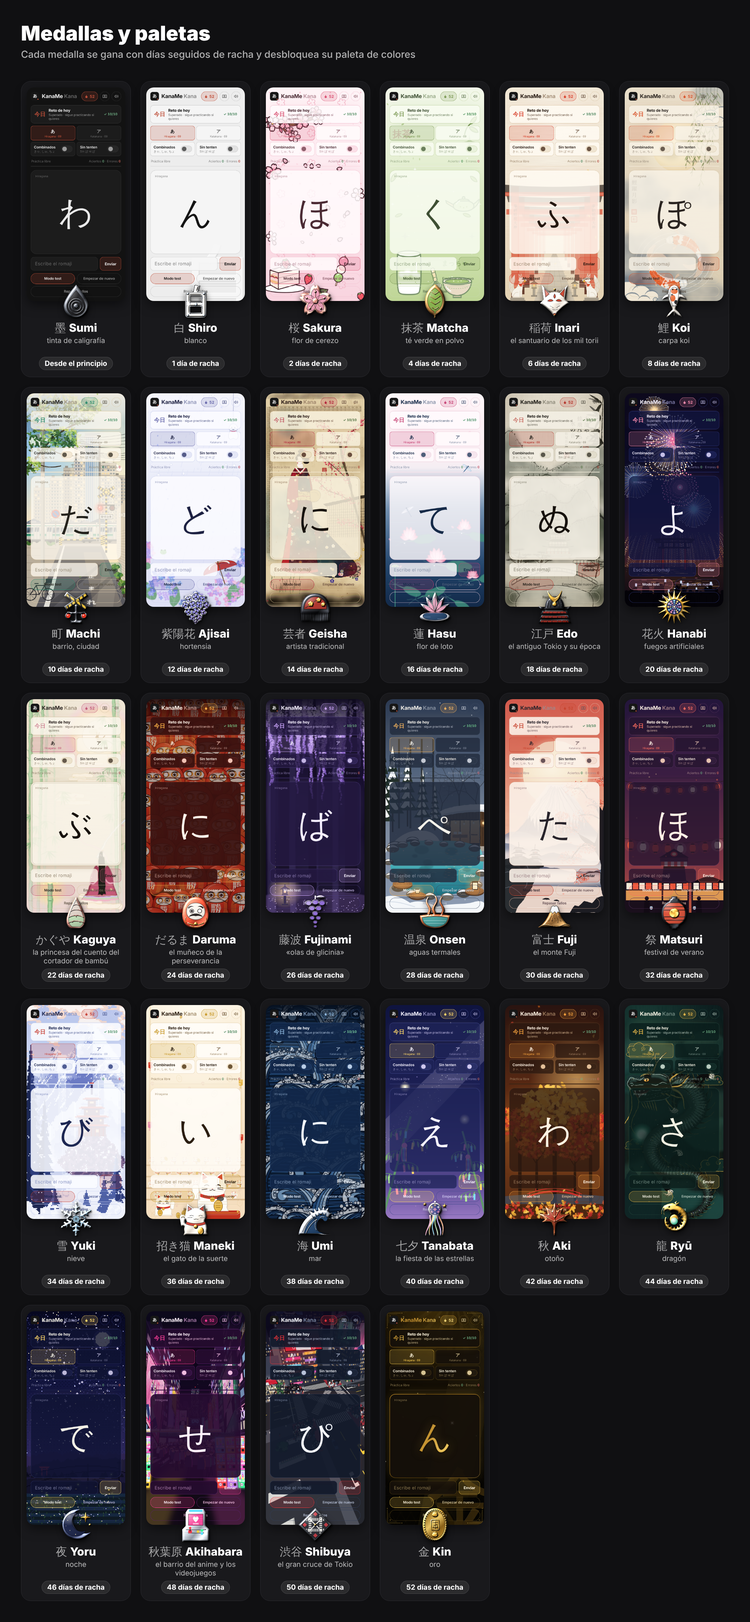
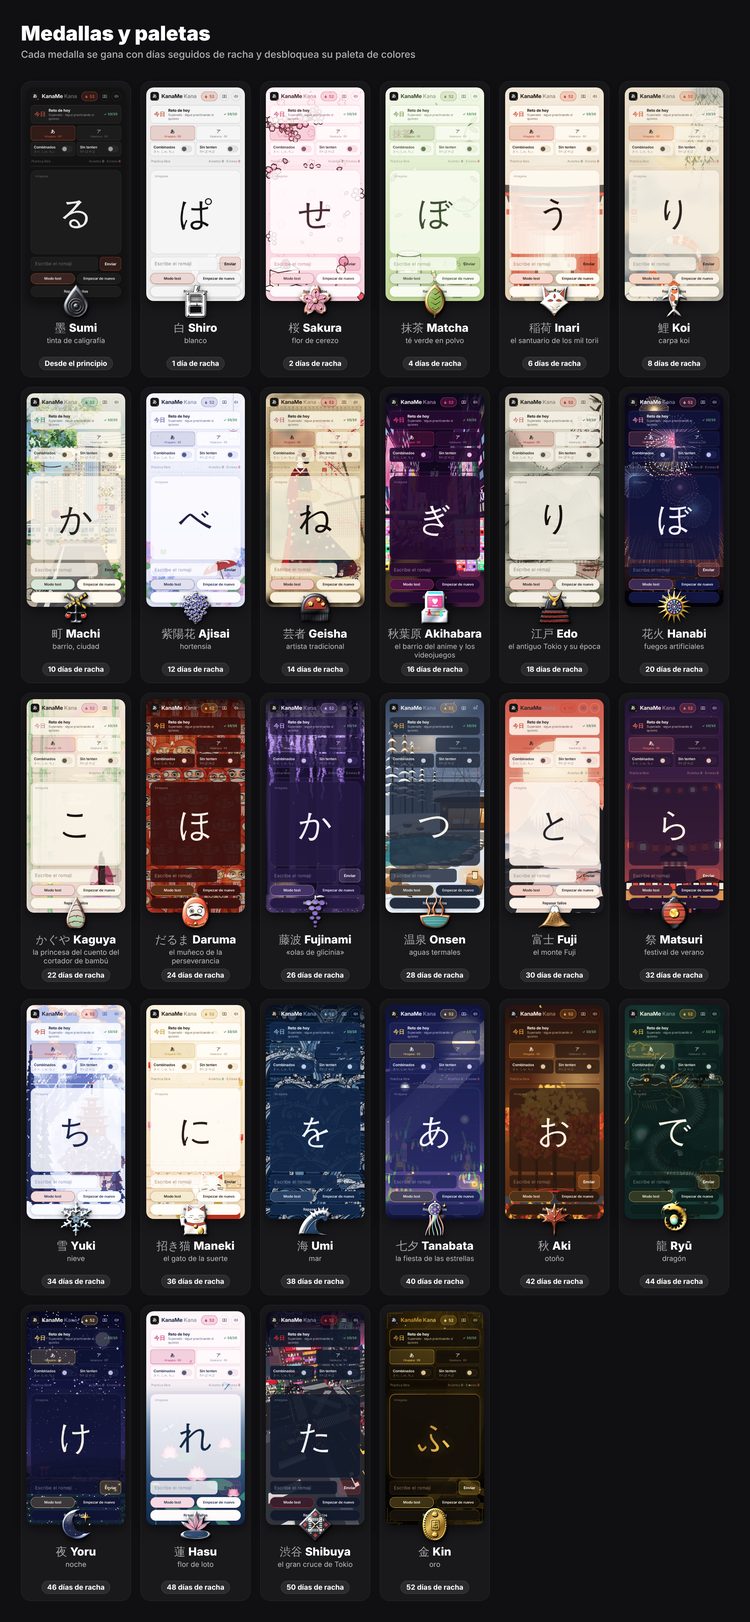
Onsen redibujado, Tanabata con luna y luciérnagas, Akihabara antes en la racha y comando rachaX

diff --git a/index.html b/index.html
@@ -3071,6 +3071,117 @@
   patchPal("shibuya", { bg: "#0b1020", surface: "#131a2c", raised: "#1b2438", hairline: "#33405c", text: "#f4f6fb", muted: "#b8c2d8", faint: "#7a86a0", accent: "#e8333a", status: "#ffd23f", surfA: "ea", grad: "#0b1020",
     pantone: "Inspirada en PANTONE Fiery Red 18-1664 (la gran pantalla y las esquinas), Classic Blue 19-4052 (la noche) y Bright White 11-0601 (las cebras)" });
 
+  // ================== v6 · 温泉 Onsen (v3): rotenburo nevado al anochecer, en 3D ==================
+  var ONP = null;
+  function onCam() { return ONP || (ONP = makeCam([0, 3.4, -1.6], .3, 0, 380, 200, 520)); }
+  function onsenScene3() {
+    var P = onCam(), r = seeded(1201), s = '<defs>' +
+      '<linearGradient id="os3" x1="0" y1="0" x2="0" y2="1"><stop offset="0" stop-color="#3a4a66"/><stop offset=".5" stop-color="#7a8aa6"/><stop offset="1" stop-color="#b8c4d4"/></linearGradient>' +
+      '<radialGradient id="ow3" cx=".5" cy=".4" r=".7"><stop offset="0" stop-color="#8ae0e6"/><stop offset=".6" stop-color="#3aa6b4"/><stop offset="1" stop-color="#1a6a7a"/></radialGradient>' +
+      '<radialGradient id="olg3"><stop offset="0" stop-color="#ffd59a" stop-opacity=".9"/><stop offset=".35" stop-color="#ffb35e" stop-opacity=".35"/><stop offset="1" stop-color="#ffb35e" stop-opacity="0"/></radialGradient>' +
+      '<linearGradient id="oin3" x1="0" y1="0" x2="0" y2="1"><stop offset="0" stop-color="#ffcf8a"/><stop offset="1" stop-color="#c8783a"/></linearGradient>' +
+      '<filter id="obl3" x="-30%" y="-30%" width="160%" height="160%"><feGaussianBlur stdDeviation="2.2"/></filter><filter id="obl4" x="-30%" y="-30%" width="160%" height="160%"><feGaussianBlur stdDeviation="7"/></filter>' +
+      '<filter id="osn" x="-10%" y="-10%" width="120%" height="120%"><feTurbulence type="fractalNoise" baseFrequency=".05" numOctaves="3" seed="4" result="n"/><feDisplacementMap in="SourceGraphic" in2="n" scale="6"/></filter></defs>';
+    s += '<rect width="400" height="860" fill="url(#os3)"/>';
+    // bosque al fondo: árboles desnudos nevados y cedros
+    function bare(x, y, len, a, dpt, w) { if (dpt === 0) return ''; var x2 = x + Math.cos(a) * len, y2 = y + Math.sin(a) * len, o = '<path d="M' + f(x) + ' ' + f(y) + 'L' + f(x2) + ' ' + f(y2) + '" stroke="#3a3a44" stroke-width="' + f(w) + '" stroke-linecap="round"/>'; if (dpt < 4 && r() > .4) o += '<path d="M' + f(x) + ' ' + f(y - w * .6) + 'L' + f(x2) + ' ' + f(y2 - w * .6) + '" stroke="#f4f7fa" stroke-width="' + f(w * .6) + '" stroke-linecap="round"/>'; return o + bare(x2, y2, len * .74, a - .3 - r() * .35, dpt - 1, w * .66) + bare(x2, y2, len * .74, a + .28 + r() * .35, dpt - 1, w * .66); }
+    s += '<g opacity=".75">' + bare(250, 470, 80, -1.6, 7, 4.4) + bare(330, 470, 90, -1.5, 7, 5) + bare(170, 470, 70, -1.7, 7, 3.6) + bare(395, 460, 80, -1.8, 7, 4.4) + bare(60, 470, 70, -1.55, 6, 3.4) + '</g>';
+    function cedar(x, base, h, w) { var o = '<rect x="' + f(x - 3) + '" y="' + f(base - h) + '" width="6" height="' + f(h) + '" fill="#2a2420"/>'; for (var k = 0; k < 9; k++) { var yy = base - h * .25 - k * h * .085, ww = w * (1 - k * .09); o += '<path d="M' + f(x - ww) + ' ' + f(yy) + 'Q' + f(x) + ' ' + f(yy - h * .1) + ' ' + f(x + ww) + ' ' + f(yy) + 'L' + f(x + ww * .3) + ' ' + f(yy - h * .06) + 'H' + f(x - ww * .3) + 'Z" fill="#20302c"/><path d="M' + f(x - ww * .9) + ' ' + f(yy - 2) + 'Q' + f(x - ww * .2) + ' ' + f(yy - h * .1) + ' ' + f(x + ww * .7) + ' ' + f(yy - 3) + 'Q' + f(x) + ' ' + f(yy - h * .05) + ' ' + f(x - ww * .9) + ' ' + f(yy - 2) + 'Z" fill="#f2f5f8"/>'; } return o; }
+    [[110, 480, 300, 34], [30, 500, 420, 50], [80, 490, 360, 42], [150, 476, 240, 28], [-20, 510, 460, 56], [200, 470, 180, 22]].forEach(function (c) { s += cedar(c[0], c[1], c[2], c[3]); });
+    s += '<path d="M-10 470C80 456 200 462 410 452V860H-10Z" fill="#dfe7f0"/>';
+    // ladera nevada con rocas y lucecitas (izquierda)
+    s += '<path d="M-10 600C10 500 60 470 120 476 160 480 180 500 186 540L170 620H-10Z" fill="#e8eef4" filter="url(#osn)"/><path d="M-10 560C30 510 80 494 140 500" fill="none" stroke="#c9d4e0" stroke-width="8" filter="url(#osn)"/>';
+    [[30, 540, 24, 14], [90, 506, 20, 12], [140, 520, 16, 10], [60, 574, 26, 15], [10, 596, 20, 12]].forEach(function (k) { s += '<ellipse cx="' + k[0] + '" cy="' + k[1] + '" rx="' + k[2] + '" ry="' + k[3] + '" fill="#5a5450"/><ellipse cx="' + (k[0] - k[2] * .25) + '" cy="' + (k[1] - k[3] * .3) + '" rx="' + (k[2] * .5) + '" ry="' + (k[3] * .4) + '" fill="#7a726a"/><path d="M' + (k[0] - k[2]) + ' ' + (k[1] - 2) + 'Q' + k[0] + ' ' + (k[1] - k[3] * 1.7) + ' ' + (k[0] + k[2]) + ' ' + (k[1] - 2) + 'Q' + k[0] + ' ' + (k[1] - k[3] * .7) + ' ' + (k[0] - k[2]) + ' ' + (k[1] - 2) + 'Z" fill="#f6f8fb"/>'; });
+    [[56, 556], [118, 514], [20, 610]].forEach(function (l) { s += '<circle cx="' + l[0] + '" cy="' + l[1] + '" r="22" fill="url(#olg3)"/><circle cx="' + l[0] + '" cy="' + l[1] + '" r="2.4" fill="#fff4d8"/>'; });
+    // cabaña de madera con el ventanal encendido (derecha)
+    var Pc = function (x, y, z) { return P(x - 1.6, y, z - 1.4); };
+    var c0 =Pc(2.2, 0, 10), c1 =Pc(9, 0, 10), c2 =Pc(2.2, 3, 10), c3 =Pc(9, 3, 10);
+    s += '<path d="' + poly(Pc, [[2.2, 0, 10], [2.2, 3.1, 10], [9, 3.1, 10], [9, 0, 10]]) + '" fill="#4a3426"/>';
+    for (var pl = 0; pl < 22; pl++) { var px = 2.2 + pl * .31; s += '<path d="M' +Pc(px, 0, 10).slice(0, 2).map(f).join(' ') + 'L' +Pc(px, 3.1, 10).slice(0, 2).map(f).join(' ') + '" stroke="#33241a" stroke-width="1.1"/>'; }
+    s += '<path d="' + poly(Pc, [[3, .2, 9.98], [3, 2.5, 9.98], [8.4, 2.5, 9.98], [8.4, .2, 9.98]]) + '" fill="url(#oin3)"/>';
+    // interior: banco, cojines, mesa y bombillas colgando
+    s += '<path d="' + poly(Pc, [[3.4, .2, 9.97], [3.4, .8, 9.97], [6, .8, 9.97], [6, .2, 9.97]]) + '" fill="#8a5a34"/><path d="' + poly(Pc, [[3.6, .8, 9.96], [3.6, 1.3, 9.96], [4.4, 1.3, 9.96], [4.4, .8, 9.96]]) + '" fill="#f3e6d0"/><path d="' + poly(Pc, [[4.6, .8, 9.96], [4.6, 1.3, 9.96], [5.4, 1.3, 9.96], [5.4, .8, 9.96]]) + '" fill="#f3e6d0"/><path d="' + poly(Pc, [[6.4, .2, 9.97], [6.4, .9, 9.97], [7.8, .9, 9.97], [7.8, .2, 9.97]]) + '" fill="#6a4426"/>';
+    [4, 5.4, 6.8, 7.8].forEach(function (bx) { var t =Pc(bx, 2.5, 9.96), b =Pc(bx, 2.1, 9.96); s += '<path d="M' + f(t[0]) + ' ' + f(t[1]) + 'L' + f(b[0]) + ' ' + f(b[1]) + '" stroke="#3a2a1e" stroke-width=".8"/><circle cx="' + f(b[0]) + '" cy="' + f(b[1] + 3) + '" r="10" fill="url(#olg3)"/><circle cx="' + f(b[0]) + '" cy="' + f(b[1] + 3) + '" r="2.6" fill="#fff6d8"/>'; });
+    [4.8, 6.6].forEach(function (mx) { s += '<path d="M' +Pc(mx, .2, 9.95).slice(0, 2).map(f).join(' ') + 'L' +Pc(mx, 2.5, 9.95).slice(0, 2).map(f).join(' ') + '" stroke="#3a2a1e" stroke-width="3"/>'; });
+    s += '<path d="' + poly(Pc, [[3, .2, 9.95], [3, 2.5, 9.95], [8.4, 2.5, 9.95], [8.4, .2, 9.95]]) + '" fill="none" stroke="#2a1e16" stroke-width="3"/>';
+    s += '<path d="' + poly(Pc, [[3, 2.5, 9.94], [3, 1.6, 9.94], [8.4, 2.5, 9.94]]) + '" fill="#fff" fill-opacity=".08"/>';
+    // farolillos de pared y tejado con nieve gruesa
+    [[2.6, 2.4], [8.8, 2.4]].forEach(function (w) { var p =Pc(w[0], w[1], 9.95); s += '<circle cx="' + f(p[0]) + '" cy="' + f(p[1]) + '" r="22" fill="url(#olg3)"/><rect x="' + f(p[0] - 3) + '" y="' + f(p[1] - 4) + '" width="6" height="8" rx="1.4" fill="#ffe2a8"/>'; });
+    s += '<path d="' + poly(Pc, [[1.6, 3.1, 9.4], [1.6, 3.6, 9.4], [9.6, 3.6, 9.4], [9.6, 3.1, 9.4]]) + '" fill="#2a1e16"/>';
+    s += '<path d="M' +Pc(1.4, 3.5, 9.3).slice(0, 2).map(f).join(' ') + 'Q' +Pc(5.5, 4.6, 9.3).slice(0, 2).map(f).join(' ') + ' ' +Pc(9.8, 3.6, 9.3).slice(0, 2).map(f).join(' ') + 'L' +Pc(9.8, 4.3, 11).slice(0, 2).map(f).join(' ') + 'L' +Pc(1.4, 4.3, 11).slice(0, 2).map(f).join(' ') + 'Z" fill="#f6f9fc" filter="url(#osn)"/>';
+    s += '<path d="M' +Pc(1.4, 3.5, 9.3).slice(0, 2).map(f).join(' ') + 'Q' +Pc(5.5, 3.9, 9.3).slice(0, 2).map(f).join(' ') + ' ' +Pc(9.8, 3.6, 9.3).slice(0, 2).map(f).join(' ') + '" fill="none" stroke="#c4d0de" stroke-width="3"/>';
+    // cubo de madera y barril
+    var bk =Pc(8.6, 0, 9.4); s += '<rect x="' + f(bk[0] - 9) + '" y="' + f(bk[1] - 18) + '" width="18" height="18" rx="2" fill="#5a3a24"/><path d="M' + f(bk[0] - 9) + ' ' + f(bk[1] - 12) + 'h18M' + f(bk[0] - 9) + ' ' + f(bk[1] - 5) + 'h18" stroke="#2a1a10" stroke-width="1.6"/>';
+    // terraza de losas delante de la cabaña
+    s += '<path d="' + poly(Pc, [[1.4, 0, 9.4], [9.8, 0, 9.4], [9.8, 0, 6], [3.2, 0, 6.8]]) + '" fill="#9a948a"/>';
+    // la poza: agua turquesa transparente con piedras en el fondo y reflejos cálidos
+    var ring = [];
+    for (var k = 0; k <= 36; k++) { var a = k / 36 * Math.PI * 2, rr = 1 + .12 * Math.sin(a * 3 + 1) + .08 * Math.sin(a * 5); ring.push([-.7 + Math.cos(a) * 3.7 * rr, -.05, 4.7 + Math.sin(a) * 2.4 * rr]); }
+    var poolD = poly(P, ring);
+    s += '<defs><clipPath id="opc3"><path d="' + poolD + '"/></clipPath></defs><path d="' + poolD + '" fill="url(#ow3)"/><g clip-path="url(#opc3)">';
+    for (var st = 0; st < 50; st++) { var sx = -4.4 + r() * 7.4, sz = 2.2 + r() * 5, sp = P(sx, -.6, sz), sr = (14 + r() * 26) * 380 / sp[2] / 30; s += '<ellipse cx="' + f(sp[0]) + '" cy="' + f(sp[1]) + '" rx="' + f(sr) + '" ry="' + f(sr * .55) + '" fill="' + ["#2a7a86", "#3a8a92", "#4a9aa0", "#5aa8ac"][(r() * 4) | 0] + '" fill-opacity=".6" filter="url(#obl3)"/><ellipse cx="' + f(sp[0] - sr * .2) + '" cy="' + f(sp[1] - sr * .2) + '" rx="' + f(sr * .5) + '" ry="' + f(sr * .25) + '" fill="#9ae4e8" fill-opacity=".35"/>'; }
+    for (var rf = 0; rf < 70; rf++) { var rx = .4 + r() * 2.8, rz = 4.6 + r() * 2.6, rp = P(rx, -.05, rz); s += '<path d="M' + f(rp[0]) + ' ' + f(rp[1]) + 'h' + f(3 + r() * 9) + '" stroke="#ffd59a" stroke-opacity="' + f(.35 + r() * .5) + '" stroke-width="1.8" stroke-linecap="round"/>'; }
+    for (var wv = 0; wv < 20; wv++) { var wx = -4.4 + r() * 7.4, wz = 2.4 + r() * 4.6, wp = P(wx, -.05, wz); s += '<path d="M' + f(wp[0]) + ' ' + f(wp[1]) + 'q8 -3 16 0" fill="none" stroke="#d9fbff" stroke-opacity=".5" stroke-width="1.2"/>'; }
+    s += '<path d="' + poolD + '" fill="none" stroke="#1a5a66" stroke-width="10" filter="url(#obl3)"/></g>';
+    // rocas del borde con nieve (de lejos a cerca)
+    ring.slice(0, 36).map(function (p, i) { return [p, i]; }).sort(function (a, b) { return P(b[0][0], 0, b[0][2])[2] - P(a[0][0], 0, a[0][2])[2]; }).forEach(function (q) {
+      var p = q[0], i = q[1], pp = P(p[0], .15, p[2]), sc = 380 / pp[2], rw = (.3 + r() * .16) * sc, rh = rw * (.5 + r() * .2), col = ["#5a5650", "#6b655c", "#4a4743", "#7a7368", "#625a50"][i % 5];
+      s += '<ellipse cx="' + f(pp[0]) + '" cy="' + f(pp[1]) + '" rx="' + f(rw) + '" ry="' + f(rh) + '" fill="' + col + '"/><ellipse cx="' + f(pp[0] - rw * .25) + '" cy="' + f(pp[1] - rh * .15) + '" rx="' + f(rw * .45) + '" ry="' + f(rh * .35) + '" fill="#fff" fill-opacity=".12"/>';
+      if (r() > .25) s += '<path d="M' + f(pp[0] - rw * .9) + ' ' + f(pp[1] - rh * .3) + 'Q' + f(pp[0]) + ' ' + f(pp[1] - rh * 1.6) + ' ' + f(pp[0] + rw * .85) + ' ' + f(pp[1] - rh * .35) + 'Q' + f(pp[0]) + ' ' + f(pp[1] - rh * .55) + ' ' + f(pp[0] - rw * .9) + ' ' + f(pp[1] - rh * .3) + 'Z" fill="#f6f9fc"/>';
+    });
+    // tarimas redondas de madera con farolillos andon (delante)
+    function stump(x, z, R) { var o = '', top = [], side = [];
+      for (var k = 0; k <= 24; k++) { var a = k / 24 * Math.PI * 2; top.push([x + Math.cos(a) * R, .45, z + Math.sin(a) * R]); }
+      for (var q = 0; q < 24; q++) { var A = top[q], B = top[q + 1]; o += '<path d="' + poly(P, [A, B, [B[0], 0, B[2]], [A[0], 0, A[2]]]) + '" fill="' + (Math.cos(q / 24 * Math.PI * 2) > 0 ? '#5a3822' : '#6e4628') + '" stroke="#4a2e1c" stroke-width=".6"/>'; }
+      o += '<path d="' + poly(P, top) + '" fill="#a8764a" stroke="#6a4426" stroke-width="1.4"/>';
+      for (var g = 1; g < 5; g++) { var ring2 = []; for (var k2 = 0; k2 <= 24; k2++) { var a2 = k2 / 24 * Math.PI * 2; ring2.push([x + Math.cos(a2) * R * g / 5, .451, z + Math.sin(a2) * R * g / 5]); } o += '<path d="' + poly(P, ring2) + '" fill="none" stroke="#7a5030" stroke-width="1"/>'; }
+      return o; }
+    function andon(x, z, sc) { var b = P(x, .45, z), t = P(x, .45 + .55 * sc, z), w = (b[1] - t[1]) * .7;
+      return '<circle cx="' + f(b[0]) + '" cy="' + f((b[1] + t[1]) / 2) + '" r="' + f(w * 3.2) + '" fill="url(#olg3)"/><rect x="' + f(b[0] - w / 2) + '" y="' + f(t[1]) + '" width="' + f(w) + '" height="' + f(b[1] - t[1]) + '" fill="#fff2d0" stroke="#3a2a1e" stroke-width="' + f(w * .12) + '"/><path d="M' + f(b[0] - w / 2) + ' ' + f(t[1] + (b[1] - t[1]) * .33) + 'h' + f(w) + 'M' + f(b[0] - w / 2) + ' ' + f(t[1] + (b[1] - t[1]) * .66) + 'h' + f(w) + '" stroke="#e8c88a" stroke-width="' + f(w * .06) + '"/><rect x="' + f(b[0] - w * .6) + '" y="' + f(t[1] - w * .14) + '" width="' + f(w * 1.2) + '" height="' + f(w * .16) + '" fill="#3a2a1e"/>'; }
+    s += stump(-1.6, 1.25, .3) + andon(-1.6, 1.25, .62) + stump(-1.05, .85, .24) + '<g>' + (function () { var b = P(-1.05, .45, .85), w = 8; return '<circle cx="' + f(b[0]) + '" cy="' + f(b[1] - 8) + '" r="30" fill="url(#olg3)"/><rect x="' + f(b[0] - w) + '" y="' + f(b[1] - 18) + '" width="' + (w * 2) + '" height="18" rx="3" fill="#ffe8b8" stroke="#3a2a1e" stroke-width="1.6"/>'; })() + '</g>' + stump(1.55, 1.3, .3) + andon(1.55, 1.3, .64);
+    // nieve del primer plano, mullida
+    s += '<path d="M-10 860V790C30 776 70 784 110 800 150 786 190 796 220 812 260 800 310 806 350 790 380 782 410 790 410 860Z" fill="#f4f7fa" filter="url(#osn)"/><path d="M-10 806C40 792 90 802 130 816M240 822C290 810 340 814 410 800" fill="none" stroke="#cad6e2" stroke-width="6" filter="url(#osn)"/>';
+    for (var sb = 0; sb < 12; sb++) s += '<ellipse cx="' + f(r() * 400) + '" cy="' + f(826 + r() * 34) + '" rx="' + f(20 + r() * 40) + '" ry="' + f(8 + r() * 10) + '" fill="#e2e9f1"/>';
+    return svg(s, 400, 860);
+  }
+  // vapor que sube del agua
+  function onsenFx3(d, node) { for (var k = 0; k < 4; k++) d.appendChild(node("steam", "left:" + (14 + k * 18) + "%;bottom:28vh;animation-delay:" + (-k * 3.6) + "s;animation-duration:" + (12 + k * 1.6) + "s")); }
+  (window.KANAME_PALETTES || []).forEach(function (p) { if (p.id === "onsen") { p.scene = onsenScene3; p.fx = onsenFx3; p.steam = false; } });
+
+  // ================== v6 · 七夕 Tanabata: luna, puente de urracas, luciérnagas y farolillos en el río ==================
+  function tanabataExtra() {
+    var r = seeded(1301), s = '<defs><radialGradient id="tmo"><stop offset="0" stop-color="#fffbe8"/><stop offset=".7" stop-color="#fff1c8"/><stop offset="1" stop-color="#f6dca0"/></radialGradient><radialGradient id="tmg"><stop offset=".5" stop-color="#fff2c0" stop-opacity=".35"/><stop offset="1" stop-color="#fff2c0" stop-opacity="0"/></radialGradient>' +
+      '<radialGradient id="tlg"><stop offset="0" stop-color="#ffd27a" stop-opacity=".9"/><stop offset="1" stop-color="#ffd27a" stop-opacity="0"/></radialGradient><linearGradient id="trv" x1="0" y1="0" x2="0" y2="1"><stop offset="0" stop-color="#1a2058" stop-opacity="0"/><stop offset=".3" stop-color="#1a2058" stop-opacity=".85"/><stop offset="1" stop-color="#0c1034"/></linearGradient></defs>';
+    // luna llena con halo y manchas
+    s += '<circle cx="316" cy="150" r="120" fill="url(#tmg)"/><circle cx="316" cy="150" r="46" fill="url(#tmo)"/><g fill="#e8d4a0" fill-opacity=".45"><ellipse cx="300" cy="140" rx="12" ry="8"/><ellipse cx="326" cy="166" rx="9" ry="6"/><ellipse cx="330" cy="134" rx="6" ry="4"/></g>';
+    // nubes finas delante de la luna
+    s += '<path d="M230 196C260 186 300 192 340 186S400 190 420 186V196C390 202 350 198 310 204S250 204 230 196Z" fill="#c9c0f0" fill-opacity=".35"/><path d="M-10 260C40 250 90 256 140 250V258C90 266 40 262 -10 270Z" fill="#c9c0f0" fill-opacity=".25"/>';
+    // puente de urracas sobre la Vía Láctea, entre Orihime y Hikoboshi
+    var A = [80, 330], B = [320, 460];
+    for (var k = 1; k < 18; k++) { var t = k / 18, x = A[0] + (B[0] - A[0]) * t, y = A[1] + (B[1] - A[1]) * t - Math.sin(t * Math.PI) * 70, sc = .8 + r() * .4, fl = (k % 2 ? 1 : -1);
+      s += '<g transform="translate(' + f(x) + ' ' + f(y) + ') scale(' + f(sc) + ') rotate(' + f(-20 + r() * 40) + ')"><path d="M-9 0Q-4 -6 0 0Q4 -6 9 0Q4 -2 0 2Q-4 -2 -9 0Z" fill="#1a1a2e"/><path d="M0 0L-2 5 2 5Z" fill="#1a1a2e"/><path d="M-6 -1.4Q-3 -4 -1 -1" fill="none" stroke="#f4f2ff" stroke-width=".9"/></g>'; }
+    s += '<circle cx="80" cy="330" r="5" fill="#fff"/><circle cx="320" cy="460" r="5" fill="#fff"/><circle cx="80" cy="330" r="16" fill="#cfe0ff" fill-opacity=".35"/><circle cx="320" cy="460" r="16" fill="#ffe0cf" fill-opacity=".35"/>';
+    // farolillos colgando del bambú
+    [[60, 640], [96, 700], [330, 650], [360, 720], [34, 760]].forEach(function (l) { s += '<path d="M' + l[0] + ' ' + (l[1] - 22) + 'V' + (l[1] - 8) + '" stroke="#e6e0d0" stroke-width=".8"/><circle cx="' + l[0] + '" cy="' + l[1] + '" r="26" fill="url(#tlg)"/><path d="M' + (l[0] - 7) + ' ' + (l[1] - 8) + 'C' + (l[0] - 12) + ' ' + (l[1] - 4) + ' ' + (l[0] - 12) + ' ' + (l[1] + 8) + ' ' + (l[0] - 7) + ' ' + (l[1] + 10) + 'H' + (l[0] + 7) + 'C' + (l[0] + 12) + ' ' + (l[1] + 8) + ' ' + (l[0] + 12) + ' ' + (l[1] - 4) + ' ' + (l[0] + 7) + ' ' + (l[1] - 8) + 'Z" fill="#ffd27a"/><path d="M' + (l[0] - 10) + ' ' + (l[1] - 2) + 'H' + (l[0] + 10) + 'M' + (l[0] - 10) + ' ' + (l[1] + 4) + 'H' + (l[0] + 10) + '" stroke="#e88a3a" stroke-width=".8"/><text x="' + l[0] + '" y="' + (l[1] + 4) + '" font-family="' + MINCHO + '" font-size="9" text-anchor="middle" fill="#a8302a">願</text>'; });
+    // río al pie, con reflejo de la luna
+    s += '<path d="M-10 790C80 778 200 784 410 776V860H-10Z" fill="url(#trv)"/>';
+    for (var w = 0; w < 10; w++) s += '<rect x="' + f(290 + (r() - .5) * 60) + '" y="' + f(796 + w * 6) + '" width="' + f(16 + r() * 30) + '" height="1.6" rx=".8" fill="#fff1c8" fill-opacity="' + f(.6 - w * .05) + '"/>';
+    return svg(s, 400, 860);
+  }
+  // luciérnagas que se encienden y se mueven, y farolillos de papel que bajan por el río
+  function tanabataFx(d, node) {
+    var r = seeded(1311), s = '<defs><radialGradient id="tff"><stop offset="0" stop-color="#f6ffb0"/><stop offset=".3" stop-color="#d8ff6a" stop-opacity=".7"/><stop offset="1" stop-color="#b8ff4a" stop-opacity="0"/></radialGradient><radialGradient id="tlg2"><stop offset="0" stop-color="#ffcf7a" stop-opacity=".9"/><stop offset="1" stop-color="#ffcf7a" stop-opacity="0"/></radialGradient></defs>';
+    for (var k = 0; k < 34; k++) { var x = r() * 400, y = 520 + r() * 300, dur = 3 + r() * 4, mv = 6 + r() * 10, beg = f(r() * dur);
+      s += '<g><animateTransform attributeName="transform" type="translate" values="0 0;' + f(mv) + ' ' + f(-mv) + ';' + f(-mv * .6) + ' ' + f(-mv * 1.4) + ';0 0" dur="' + f(dur * 2.4) + 's" begin="' + beg + 's" repeatCount="indefinite"/><circle cx="' + f(x) + '" cy="' + f(y) + '" r="7" fill="url(#tff)" opacity="0"><animate attributeName="opacity" values="0;1;0;0" keyTimes="0;0.25;0.55;1" dur="' + f(dur) + 's" begin="' + beg + 's" repeatCount="indefinite"/></circle><circle cx="' + f(x) + '" cy="' + f(y) + '" r="1.3" fill="#fbffd8" opacity="0"><animate attributeName="opacity" values="0;1;0;0" keyTimes="0;0.25;0.55;1" dur="' + f(dur) + 's" begin="' + beg + 's" repeatCount="indefinite"/></circle></g>'; }
+    for (var j = 0; j < 4; j++) { var y2 = 808 + j * 11, sc = .8 + j * .15;
+      s += '<g><animateTransform attributeName="transform" type="translate" values="-60 0;460 0" dur="' + (34 + j * 6) + 's" begin="' + (-j * 9) + 's" repeatCount="indefinite"/><circle cx="0" cy="' + y2 + '" r="' + f(18 * sc) + '" fill="url(#tlg2)"/><rect x="' + f(-6 * sc) + '" y="' + f(y2 - 10 * sc) + '" width="' + f(12 * sc) + '" height="' + f(10 * sc) + '" fill="#fff0c8" stroke="#8a5a2a" stroke-width=".8"/><rect x="' + f(-8 * sc) + '" y="' + f(y2) + '" width="' + f(16 * sc) + '" height="' + f(2.4 * sc) + '" fill="#6a4426"/></g>'; }
+    d.appendChild(node("scene", "background-image:" + svg(s, 400, 860)));
+  }
+  (window.KANAME_PALETTES || []).forEach(function (p) { if (p.id === "tanabata") { var old = p.scene; p.scene = function () { return tanabataExtra() + ", " + old(); }; p.fx = tanabataFx; } });
+
+  // Akihabara sube al puesto de Hasu (se conoce antes) y Hasu pasa al de Akihabara
+  (function () { var P = window.KANAME_PALETTES, a = -1, h = -1; P.forEach(function (p, i) { if (p.id === "akihabara") a = i; if (p.id === "hasu") h = i; }); if (a >= 0 && h >= 0) { var t = P[a]; P[a] = P[h]; P[h] = t; } })();
+
   function rnd(a, b) { return a + Math.random() * (b - a); }
   function pick(a) { return a[Math.floor(Math.random() * a.length)]; }
   function node(cls, style) { var e = document.createElement("div"); if (cls) e.className = cls; if (style) e.setAttribute("style", style); return e; }
@@ -3248,7 +3359,7 @@
 </script>
 <script>
   // En KanaMe Kana las medallas llegan antes (el kana se aprende en pocas semanas): 1, 2, 4 y luego cada 2 días hasta Kin, a los 52
-  (function () { var D = { sumi: 0, shiro: 1, sakura: 2, matcha: 4, inari: 6, koi: 8, machi: 10, ajisai: 12, geisha: 14, hasu: 16, edo: 18, hanabi: 20, kaguya: 22, daruma: 24, fuji: 26, onsen: 28, fujisan: 30, matsuri: 32, yuki: 34, maneki: 36, umi: 38, tanabata: 40, momiji: 42, ryu: 44, yoru: 46, akihabara: 48, shibuya: 50, kin: 52 };
+  (function () { var D = { sumi: 0, shiro: 1, sakura: 2, matcha: 4, inari: 6, koi: 8, machi: 10, ajisai: 12, geisha: 14, akihabara: 16, edo: 18, hanabi: 20, kaguya: 22, daruma: 24, fuji: 26, onsen: 28, fujisan: 30, matsuri: 32, yuki: 34, maneki: 36, umi: 38, tanabata: 40, momiji: 42, ryu: 44, yoru: 46, hasu: 48, shibuya: 50, kin: 52 };
     (window.KANAME_PALETTES || []).forEach(function (p) { if (p.id in D) p.days = D[p.id]; }); })();
 </script>
 
@@ -3387,6 +3498,8 @@
   .pill-btn:disabled { opacity: .45; }
   .pill-btn { appearance: none; border: 1px solid var(--accent); background: var(--accent-soft); color: var(--text); font-size: 14px; font-weight: 600; padding: 12px 18px; border-radius: 999px; cursor: pointer; }
   .pill-btn.ghost { border-color: var(--hairline); background: transparent; color: var(--text-muted); }
+  .actions .pill-btn { background: linear-gradient(var(--accent-soft), var(--accent-soft)), var(--surface-solid, var(--surface)); color: var(--text); box-shadow: 0 2px 10px rgba(0,0,0,.18); }
+  .actions .pill-btn.ghost { background: var(--surface-solid, var(--surface)); }
 
   /* Result sheet */
   .sheet-backdrop { position: fixed; inset: 0; background: #000a; display: none; align-items: flex-end; justify-content: center; z-index: 10; }
@@ -4161,29 +4274,30 @@
 
   /* ================= Centro de comandos (secreto) =================
      Se abre escribiendo «lucas» (en KanaMe Kana, como respuesta; en KanaMe Kanji, en el cuadro de restaurar).
-     «racha X» cambia la mayor racha a X: se desbloquean o vuelven a bloquear las paletas que toque
+     «rachaX» (p. ej. racha30) cambia la mayor racha a X: se desbloquean o vuelven a bloquear las paletas que toque
      (y al volver a ganarlas sale otra vez la animación de la medalla). La paleta vuelve siempre a Sumi. */
   function openConsole() {
     document.querySelectorAll(".sheet-backdrop.open").forEach(function (e) { e.classList.remove("open"); });
     var bd = $("cmdSheet");
     if (!bd) {
       bd = document.createElement("div"); bd.className = "sheet-backdrop"; bd.id = "cmdSheet";
-      bd.innerHTML = '<div class="sheet" role="dialog" aria-modal="true" aria-label="Comandos"><h2>Comandos</h2><p class="sub"><b>racha X</b>: cambia tu mayor racha a X días y desbloquea o vuelve a bloquear las paletas que correspondan.</p>' +
-        '<input type="text" id="cmdInput" autocapitalize="none" autocorrect="off" spellcheck="false" enterkeyhint="send" placeholder="racha 30" style="width:100%;box-sizing:border-box;padding:12px 14px;border-radius:12px;border:1px solid var(--hairline);background:var(--bg);color:var(--text);font:inherit;font-size:16px">' +
+      bd.innerHTML = '<div class="sheet" role="dialog" aria-modal="true" aria-label="Comandos"><h2>Comandos</h2><p class="sub"><b>rachaX</b> (por ejemplo racha30): cambia tu mayor racha a X días y desbloquea o vuelve a bloquear las paletas que correspondan.</p>' +
+        '<input type="text" id="cmdInput" autocapitalize="none" autocorrect="off" spellcheck="false" enterkeyhint="send" placeholder="racha30" style="width:100%;box-sizing:border-box;padding:12px 14px;border-radius:12px;border:1px solid var(--hairline);background:var(--bg);color:var(--text);font:inherit;font-size:16px">' +
         '<div class="row" style="margin-top:10px;display:flex;gap:8px"><button class="pill-btn" id="cmdRun">Ejecutar</button><button class="pill-btn ghost" id="cmdClose">Cerrar</button></div><p class="note" id="cmdOut" style="margin-top:12px"></p></div>';
       document.body.appendChild(bd);
       bd.addEventListener("click", function (e) { if (e.target === bd) bd.classList.remove("open"); });
       $("cmdClose").onclick = function () { bd.classList.remove("open"); };
       $("cmdRun").onclick = runCommand;
-      $("cmdInput").addEventListener("keydown", function (e) { if (e.key === "Enter") { e.preventDefault(); runCommand(); } });
+      $("cmdInput").addEventListener("keydown", function (e) { e.stopPropagation(); if (e.key === "Enter") { e.preventDefault(); runCommand(); } });
+      $("cmdInput").addEventListener("keyup", function (e) { e.stopPropagation(); });
     }
     $("cmdOut").textContent = "Mayor racha actual: " + streak.best + (streak.best === 1 ? " día." : " días.");
     bd.classList.add("open");
     setTimeout(function () { $("cmdInput").focus(); }, 60);
   }
   function runCommand() {
-    var v = $("cmdInput").value.trim().toLowerCase(), m = v.match(/^racha\s+(\d+)$/), out = $("cmdOut");
-    if (!m) { out.textContent = "Comando no reconocido. Prueba: racha 30"; return; }
+    var v = $("cmdInput").value.trim().toLowerCase(), m = v.match(/^racha\s*(\d+)$/), out = $("cmdOut");
+    if (!m) { out.textContent = "Comando no reconocido. Prueba: racha30"; return; }
     var x = parseInt(m[1], 10);
     if (!(x > 0)) { out.textContent = "El número tiene que ser 1 o mayor."; return; }
     streak.best = x;

diff --git a/sw.js b/sw.js
@@ -1,7 +1,7 @@
 /* KanaMe Kana service worker — permite usar la app sin conexión.
    Estrategia "red primero": si hay internet siempre carga la última versión;
    si no, usa la copia guardada. Sube VERSION al publicar cambios grandes. */
-const VERSION = "kaname-kana-v20";
+const VERSION = "kaname-kana-v21";
 const CORE = ["./", "index.html", "site.webmanifest", "icons/icon-192.png", "apple-touch-icon.png", "audio/correct.mp3", "audio/wrong.mp3"];
 
 self.addEventListener("install", (e) => {

diff --git a/README.md b/README.md
@@ -45,7 +45,7 @@ Se aceptan tanto la romanización Hepburn como las variantes más habituales: *s
 ## Racha, medallas y guía
 
 - **Reto de hoy.** Elige tu reto: acertar 5, 10 o 20 kana al día (en práctica libre o en el test) para sumar un día a tu **racha 🔥**.
-- **Medallas y paletas.** El primer día ganas la medalla 白 Shiro, el segundo 桜 Sakura y después una cada 2 días hasta 金 Kin (52 días): 28 medallas en total. Cada medalla trae su paleta de colores, con fondo y efectos propios; las de 江戸 Edo, かぐや Kaguya y 芸者 Geisha cambian además la letra a pincel, y las de 町 Machi, 花火 Hanabi, 秋葉原 Akihabara y 渋谷 Shibuya tienen fondos animados.
+- **Medallas y paletas.** El primer día ganas la medalla 白 Shiro, el segundo 桜 Sakura y después una cada 2 días hasta 金 Kin (52 días): 28 medallas en total. Cada medalla trae su paleta de colores, con fondo y efectos propios; las de 江戸 Edo, かぐや Kaguya y 芸者 Geisha cambian además la letra a pincel, y las de 町 Machi, 秋葉原 Akihabara, 花火 Hanabi, 七夕 Tanabata y 渋谷 Shibuya tienen fondos animados.
 - **Guía de pronunciación.** La tabla de todos los kana con su romaji, por separado para hiragana y katakana, con trucos de pronunciación para hispanohablantes. Toca un kana para oírlo.
 - **Recordatorio diario.** Un aviso a la hora que elijas si aún no has superado el reto del día.
 
